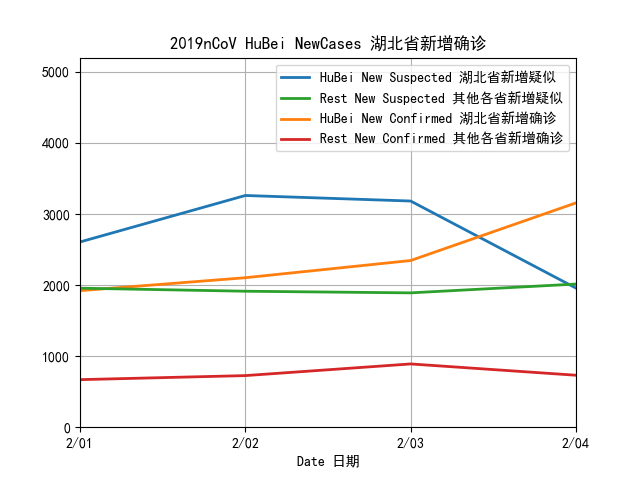
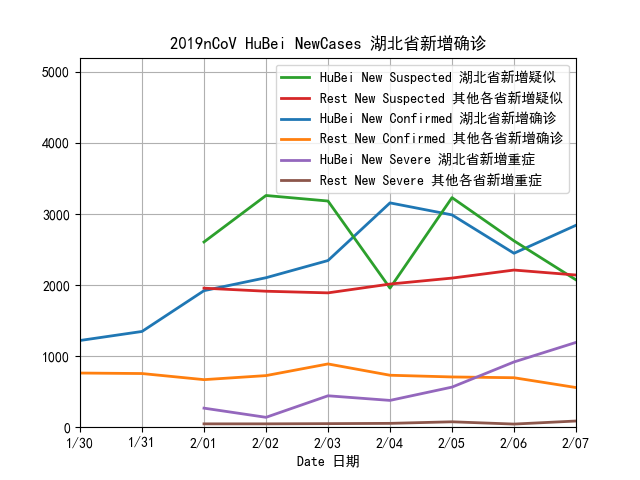
updated for Feb 7 data

diff --git a/plotCharts.py b/plotCharts.py
@@ -10,11 +10,27 @@ mpl.rcParams['axes.unicode_minus']=False # in case minus sign is shown as box
 
 dfData = pd.read_csv('data.csv')
 dfChina = dfData[dfData['Region']=='China']
+dfHB    = dfData[dfData['Region']=='HB']
+dfChinaHB = dfChina.merge(dfHB, on=['Date'], how='inner')
+dfChinaHBx = dfChinaHB[dfChinaHB['Date']>='2/01']
 
 nChina = len(dfChina)
 
+#Suspected
+plt.figure(2)
+currentQuarantine, = plt.plot(dfChina['Date'], dfChina['CurrentQuarantine14'], '-', linewidth=2, c='g')
+currentSuspected, = plt.plot(dfChina['Date'], dfChina['CurrentSuspected11'], '-', linewidth=2, c='m')
+newSuspected, = plt.plot(dfChina['Date'], dfChina['NewSuspected5'], '-', linewidth=2, c='r')
+plt.axis((dfChina['Date'][0], dfChina['Date'][nChina-1], 0, dfChina['CurrentQuarantine14'][nChina-1]+2000))
+plt.xticks(dfChina['Date'], dfChina['Date'])
+plt.xlabel('Date 日期')
+plt.title('2019nCoV China Suspected 全国 疑似')
+plt.grid(True)
+plt.legend([currentQuarantine, currentSuspected, newSuspected], [u'Current Quarantine 正在接受医学观察', u'Current Suspected 现有疑似', u'New Suspected 新增疑似'])
+plt.savefig('Suspected.png')
+
 #NewCases
-plt.figure(1)
+plt.figure(3)
 newConfirmed, = plt.plot(dfChina['Date'], dfChina['NewConfirmed1'], '-', linewidth=2, c='y')
 newSevere, = plt.plot(dfChina['Date'], dfChina['NewSevere2'], '-', linewidth=2, c='r')
 newDeaths, = plt.plot(dfChina['Date'], dfChina['NewDeaths3'], '-', linewidth=2, c='black')
@@ -28,4 +44,20 @@ plt.grid(True)
 plt.legend([newSuspected, newConfirmed, newSevere, newReleased, newDeaths], [u'New Suspected 新增疑似', u'New Confirmed 新增确诊', u'New Severe 新增重症', u'New Released 新增治愈', u'New Deaths 新增死亡'])
 plt.savefig('NewCases.png')
 
-plt.show()
+#HB vs Rest
+plt.figure(4)
+hbNewConfirmed, = plt.plot(dfChinaHB['Date'], dfChinaHB['NewConfirmed1_y'], '-', linewidth=2)
+restNewConfirmed, = plt.plot(dfChinaHB['Date'], dfChinaHB['NewConfirmed1_x']-dfChinaHB['NewConfirmed1_y'], '-', linewidth=2)
+hbNewSuspected, = plt.plot(dfChinaHBx['Date'], dfChinaHBx['NewSuspected5_y'], '-', linewidth=2)
+restNewSuspected, = plt.plot(dfChinaHBx['Date'], dfChinaHBx['NewSuspected5_x']-dfChinaHBx['NewSuspected5_y'], '-', linewidth=2)
+hbNewSevere, = plt.plot(dfChinaHBx['Date'], dfChinaHBx['NewSevere2_y'], '-', linewidth=2)
+restNewSevere, = plt.plot(dfChinaHBx['Date'], dfChinaHBx['NewSevere2_x']-dfChinaHBx['NewSevere2_y'], '-', linewidth=2)
+plt.axis(("2/01", dfChina['Date'][nChina-1], 0, 5200))
+plt.xticks(dfChinaHB['Date'], dfChinaHB['Date'])
+plt.xlabel('Date 日期')
+plt.title('2019nCoV HuBei NewCases 湖北省新增确诊')
+plt.grid(True)
+plt.legend([hbNewSuspected, restNewSuspected, hbNewConfirmed, restNewConfirmed, hbNewSevere, restNewSevere], [u'HuBei New Suspected 湖北省新增疑似', u'Rest New Suspected 其他各省新增疑似', u'HuBei New Confirmed 湖北省新增确诊', u'Rest New Confirmed 其他各省新增确诊', u'HuBei New Severe 湖北省新增重症', u'Rest New Severe 其他各省新增重症'])
+plt.savefig('HuBeiNewCases.png')
+
+#plt.show()
